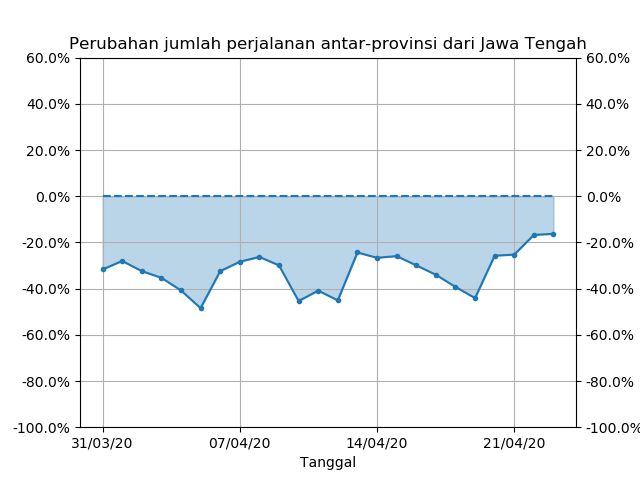
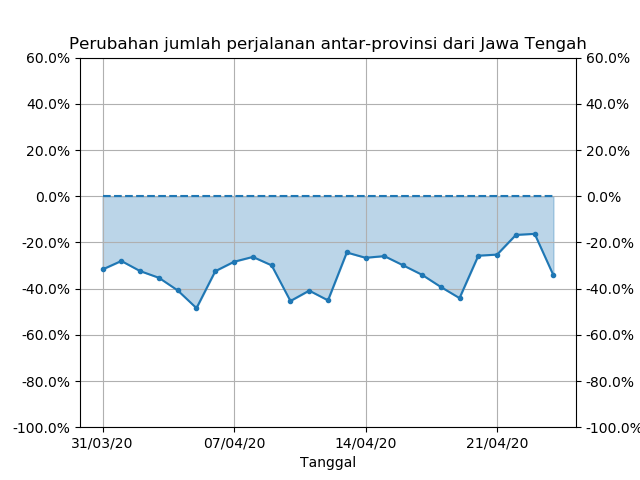
Update mobility

diff --git a/idcovid19-mobility.md b/idcovid19-mobility.md
@@ -6,34 +6,34 @@ permalink: /idcovid19-mobility/
 ---
 
 Sumber data: [Facebook GeoInsight](https://www.facebook.com/geoinsights-portal/) dan [Indonesia GeoJSON](https://github.com/superpikar/indonesia-geojson) <br/>
-Diperbarui pada: 24/04/2020<br/>
+Diperbarui pada: 26/04/2020<br/>
 
 #### DKI Jakarta
 
-Rata-rata 10 hari terakhir: \\(\left(-49.7\pm 5.5\right)\%\\)
+Rata-rata 10 hari terakhir: \\(\left(-51.0\pm 6.0\right)\%\\)
 
 <img title="DKI Jakarta" src="{{ site.baseurl }}/assets/idcovid19-mobility/antar-provinsi_dari_dki_jakarta.png" width="50%"/>
 
 #### Jawa Barat
 
-Rata-rata 10 hari terakhir: \\(\left(-48.4\pm 5.5\right)\%\\)
+Rata-rata 10 hari terakhir: \\(\left(-49.6\pm 5.7\right)\%\\)
 
 <img title="Jawa Barat" src="{{ site.baseurl }}/assets/idcovid19-mobility/antar-provinsi_dari_jawa_barat.png" width="50%"/>
 
 #### Jawa Timur
 
-Rata-rata 10 hari terakhir: \\(\left(-12.0\pm 10.9\right)\%\\)
+Rata-rata 10 hari terakhir: \\(\left(-13.4\pm 12.3\right)\%\\)
 
 <img title="Jawa Timur" src="{{ site.baseurl }}/assets/idcovid19-mobility/antar-provinsi_dari_jawa_timur.png" width="50%"/>
 
 #### Sulawesi Selatan
 
-Rata-rata 10 hari terakhir: \\(\left(-45.4\pm 10.5\right)\%\\)
+Rata-rata 10 hari terakhir: \\(\left(-43.6\pm 9.9\right)\%\\)
 
 <img title="Sulawesi Selatan" src="{{ site.baseurl }}/assets/idcovid19-mobility/antar-provinsi_dari_sulawesi_selatan.png" width="50%"/>
 
 #### Jawa Tengah
 
-Rata-rata 10 hari terakhir: \\(\left(-28.4\pm 8.4\right)\%\\)
+Rata-rata 10 hari terakhir: \\(\left(-29.2\pm 8.6\right)\%\\)
 
 <img title="Jawa Tengah" src="{{ site.baseurl }}/assets/idcovid19-mobility/antar-provinsi_dari_jawa_tengah.png" width="50%"/>
